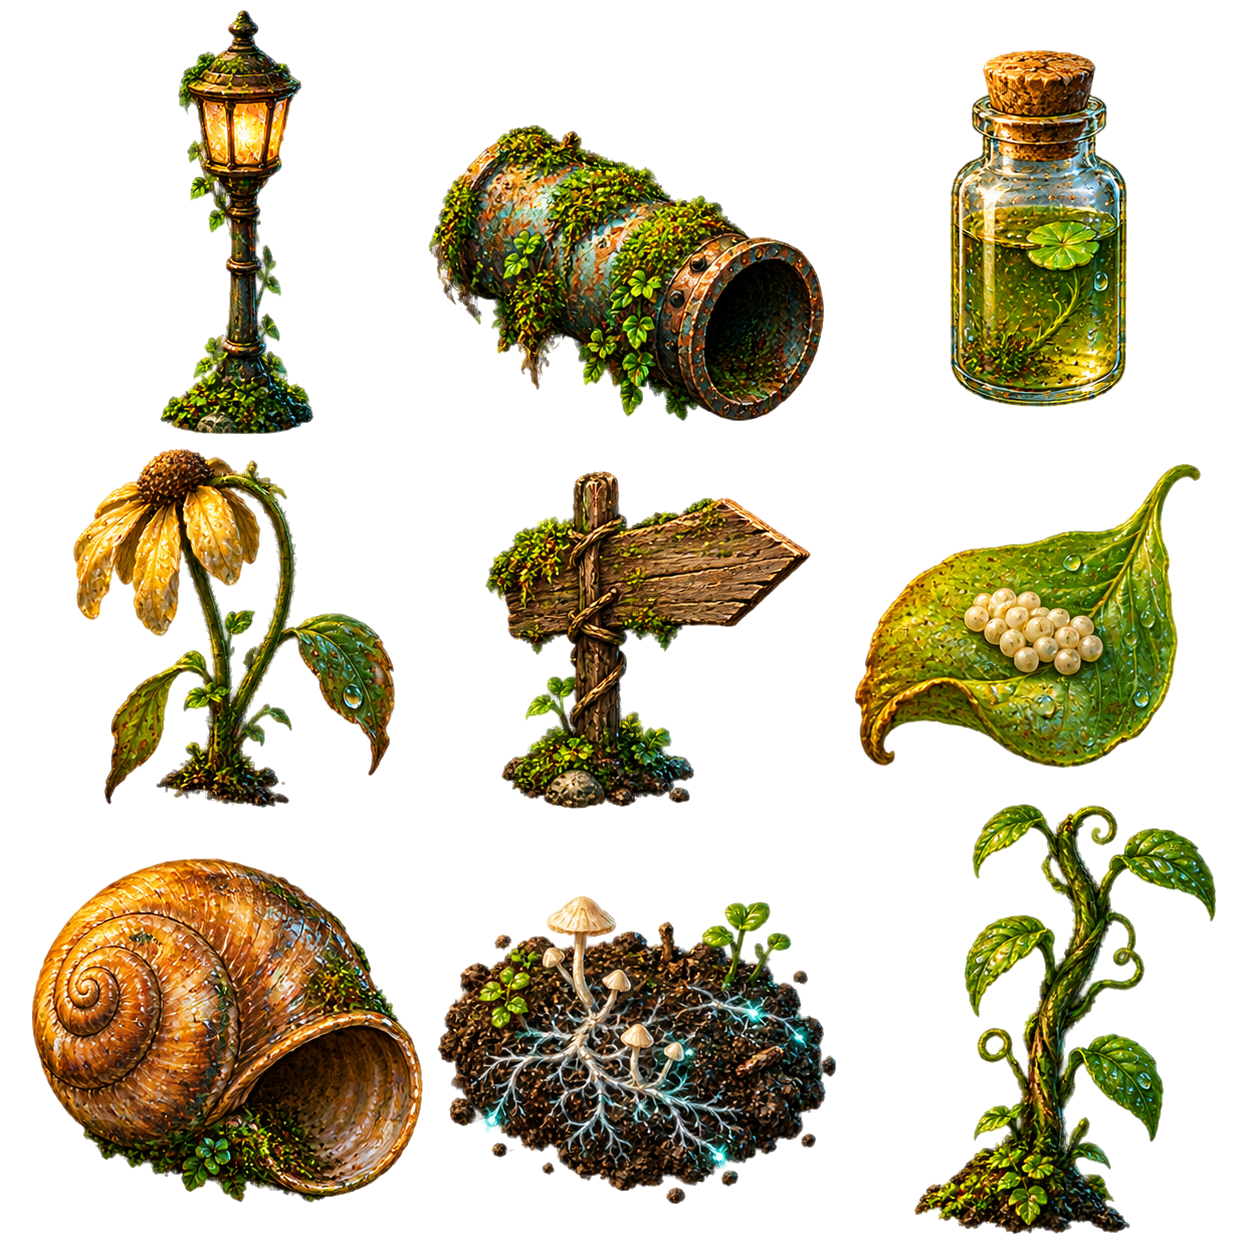
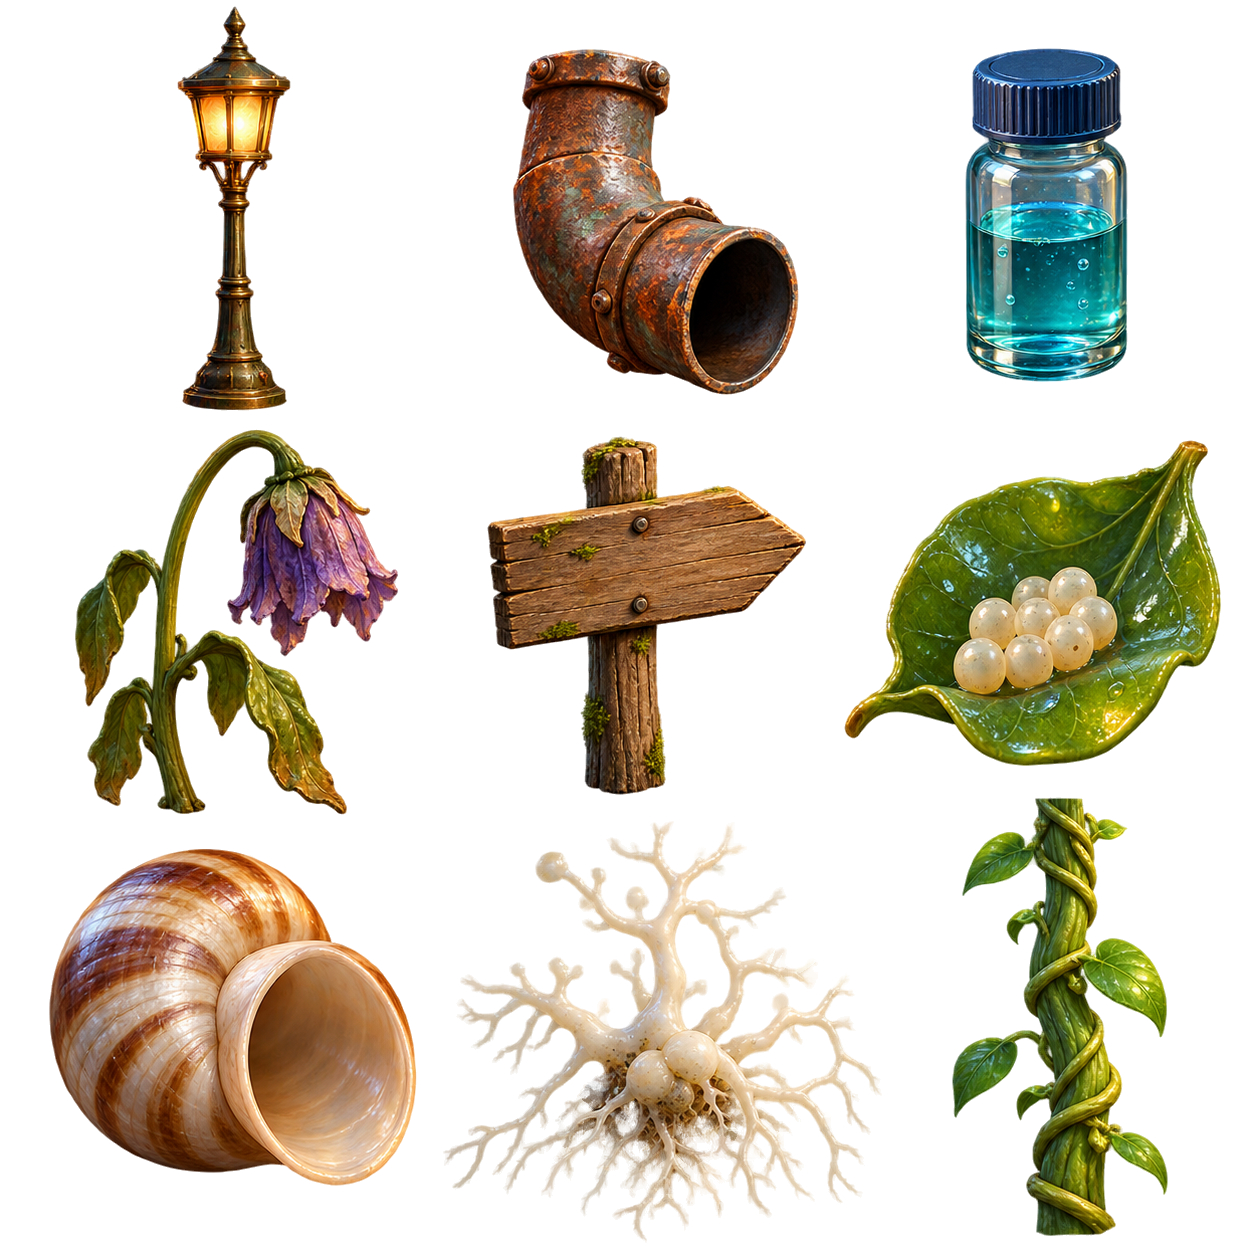
1.7.0: новые спрайты героя, обитателей, предметов, растений, сцен и меню
21 новый лист иллюстраций: очищены от каймы и крапинок, подключены к
сборке атласа. Нарезка по островкам (ноги и усики не попадают в
соседнюю клетку), спальня из отдельной мебели, гладкие крупные
растения, новые планы кат-сцен и картина меню; рыбы плывут вперёд.

Claude-Session: https://claude.ai/code/session_01LiX2t821NHeoVmR2XjR9n9

diff --git a/src/underwater.js b/src/underwater.js
@@ -441,7 +441,7 @@ export class UnderwaterScene extends Phaser.Scene {
       o.y = o.homeY + Math.sin(time / 1300 + o.seed) * 28;
       // Four illustrated tail-beat frames, each fish with its own phase.
       o.setTexture("fish" + (this.app.state.settings.low ? 0 : Math.floor(time / 145 + o.seed) % 4));
-      o.setFlipX(true);
+      o.setFlipX(false);
     }
     for (const o of this.npcs) {
       const d = Math.hypot(o.x - this.player.x, o.y - this.player.y);

diff --git a/src/release.js b/src/release.js
@@ -1,5 +1,5 @@
 import { T } from "./content.js";
-export const VERSION = "1.6.0";
+export const VERSION = "1.7.0";
 export const RELEASE_UI = {
   bootFail: T(
     "Не удалось подготовить мир. Проверьте, что архив распакован целиком. Сохранения не удалены.",

diff --git a/README.md b/README.md
@@ -1,3 +1,7 @@
+# Обновление 1.7.0 — Новые спрайты
+
+Герой, обитатели, предметы, растения, кат-сцены, спальня и меню нарисованы заново. Подробности — `docs/RELEASE_NOTES.md`.
+
 # Обновление 1.6.0 — Удобное управление
 
 Джойстик с зоной покоя, раскладка для телефона, состояния кнопок, аккуратные уведомления, отметка сохранения, плавная прозрачность растений. Подробности — `docs/RELEASE_NOTES.md`.
@@ -28,7 +32,7 @@
 
 # Большой маленький мир · Үлкен кішкентай әлем · The Great Little World
 
-Релиз **1.6.0**. Сюжетное приключение на Phaser 3 с непрерывной картой, девятью главами, подземной Муравьиной цитаделью, высотными тропами и отдельным подводным уровнем. Растения реагируют на касание, природные материалы можно переносить, камешки и крышки имеют движущиеся физические тела. Грунт, свет и растительность постепенно меняются между областями; проходы сопровождаются параллаксом и расширением обзора. Дополнительная переправа оставляет действующий паром, корневую тропу или мост. Герой и 26 обитателей используют согласованные спрайты, кат-сцены — отдельные движущиеся планы. Игра устанавливается как приложение (PWA) и работает без сети.
+Релиз **1.7.0**. Сюжетное приключение на Phaser 3 с непрерывной картой, девятью главами, подземной Муравьиной цитаделью, высотными тропами и отдельным подводным уровнем. Растения реагируют на касание, природные материалы можно переносить, камешки и крышки имеют движущиеся физические тела. Грунт, свет и растительность постепенно меняются между областями; проходы сопровождаются параллаксом и расширением обзора. Дополнительная переправа оставляет действующий паром, корневую тропу или мост. Герой и 26 обитателей используют согласованные спрайты, кат-сцены — отдельные движущиеся планы. Игра устанавливается как приложение (PWA) и работает без сети.
 
 ## Быстрый запуск
 

diff --git a/docs/RELEASE_NOTES.md b/docs/RELEASE_NOTES.md
@@ -1,3 +1,19 @@
+# 1.7.0 — Новые спрайты
+
+Перерисованы почти все листы спрайтов игры по новым иллюстрациям автора.
+
+- Герой: ходьба в четырёх направлениях, подъём, планер, стойка; сон и пробуждение в спальне.
+- 34 вида обитателей (сад, луг, почва, ночь и вода, водные личинки, колония), личинки, куколки и яйца муравьёв.
+- Предметы мира: камни, листья, веточки, роса, мусор, росток, куколка, мостик, семена, бревно; деревья, рогоз, васильки, паутина, светящиеся грибы, кувшинка, мох, камень с лишайником, коробочка мака; предметы заданий (фонарь, труба, пробирка, увядший цветок, указатель, лист с яйцами, раковина, грибница, стебель).
+- Большие растения (трава, ромашка, клевер, гриб, бревно, папоротник, водные растения, корни) — гладкие картинки 192 px.
+- Листья-платформы, листовой планер, одуванчики и семя, рыбы (теперь плывут головой вперёд).
+- Цитадель: корневые арки, камера с яйцами, подстилка. Текстуры грунта: мох, глина, ил, перегной.
+- Кат-сцены: новые планы луга, ночи, воды и корней; спальня собрана из ночной и утренней стены и отдельных кровати и стола.
+- Новая картина главного меню.
+- Все листы очищены от цветной каймы и крапинок; нарезка теперь отдаёт каждой ноге или усику свою клетку, а не соседнюю.
+
+Проверка: 47 тестов; сюжетный прогон; браузерная приёмка Chromium; офлайн-файл; снимки мира, подводного сада, цитадели, кат-сцен, спальни и меню.
+
 # 1.6.0 — Удобное управление
 
 Полировка управления и интерфейса, перенесённая из параллельной ветки.

diff --git a/docs/START_HERE.md b/docs/START_HERE.md
@@ -1,6 +1,6 @@
 # Большой маленький мир · Үлкен кішкентай әлем · The Great Little World
 
-**Версия 1.6.0 · Удобное управление**
+**Версия 1.7.0 · Новые спрайты**
 
 Сюжетное приключение для школьников: герой уменьшается до размера муравья и проходит девять глав среди насекомых — от Изумрудных джунглей и подземной Муравьиной цитадели до Подводного сада и Ночного сада. Игра полностью переведена на казахский, русский и английский; язык меняется прямо во время игры.
 
